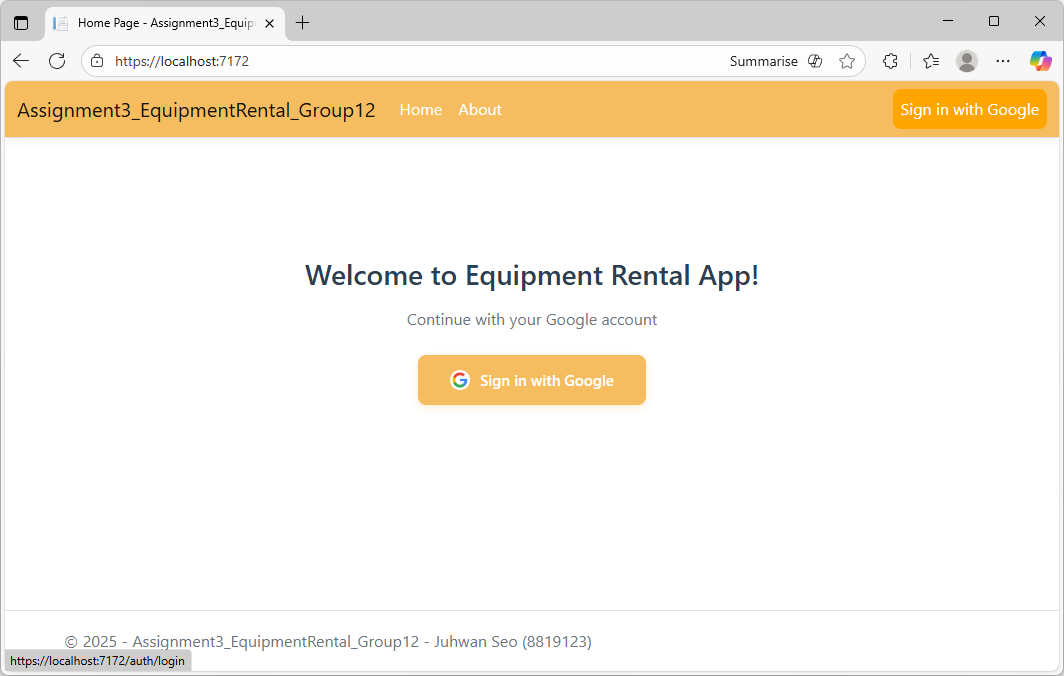
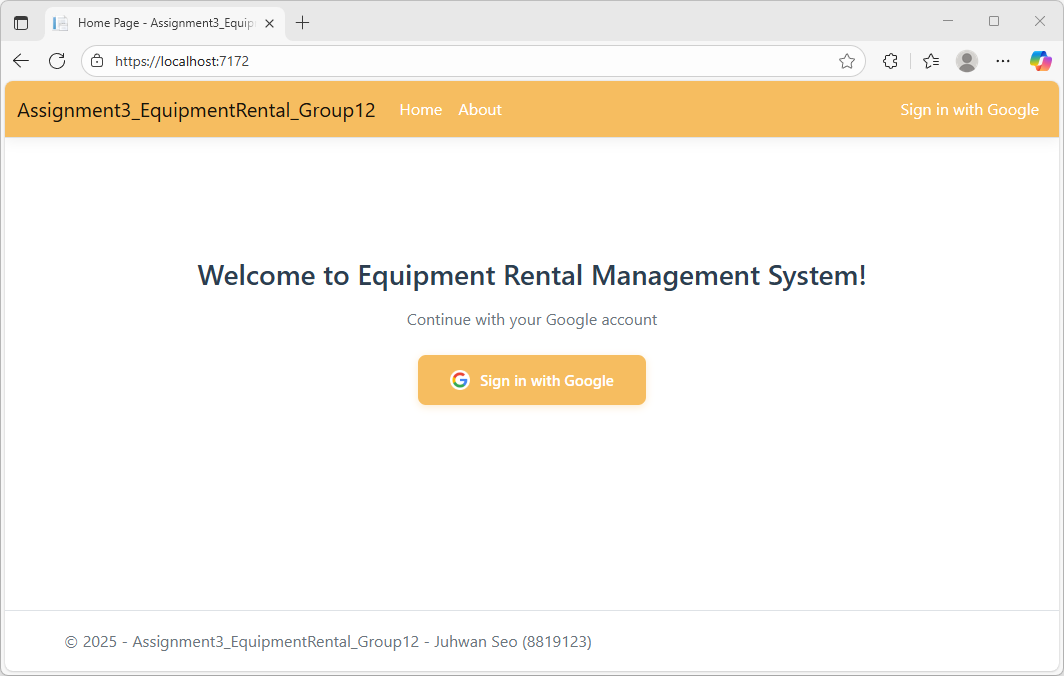
Update Dashboard pages

diff --git a/Assignment3_EquipmentRental_UI_Group12/wwwroot/css/site.css b/Assignment3_EquipmentRental_UI_Group12/wwwroot/css/site.css
@@ -124,3 +124,28 @@ padding: 0.75rem 0;
         color: #f5a742;
         text-decoration: underline;
     }
+
+/* Dashboard styles */
+.dashboard-message {
+    color: #6c757d;
+    font-size: 1rem;
+    margin-top: 1.5rem;
+    font-style: italic;
+}
+
+.role-badge {
+    display: inline-block;
+    padding: 0.35rem 0.75rem;
+    border-radius: 6px;
+    font-weight: 600;
+    font-size: 0.95rem;
+    color: white;
+}
+
+.role-admin {
+    background-color: #f6bd60;
+}
+
+.role-user {
+    background-color: #84a98c;
+}
